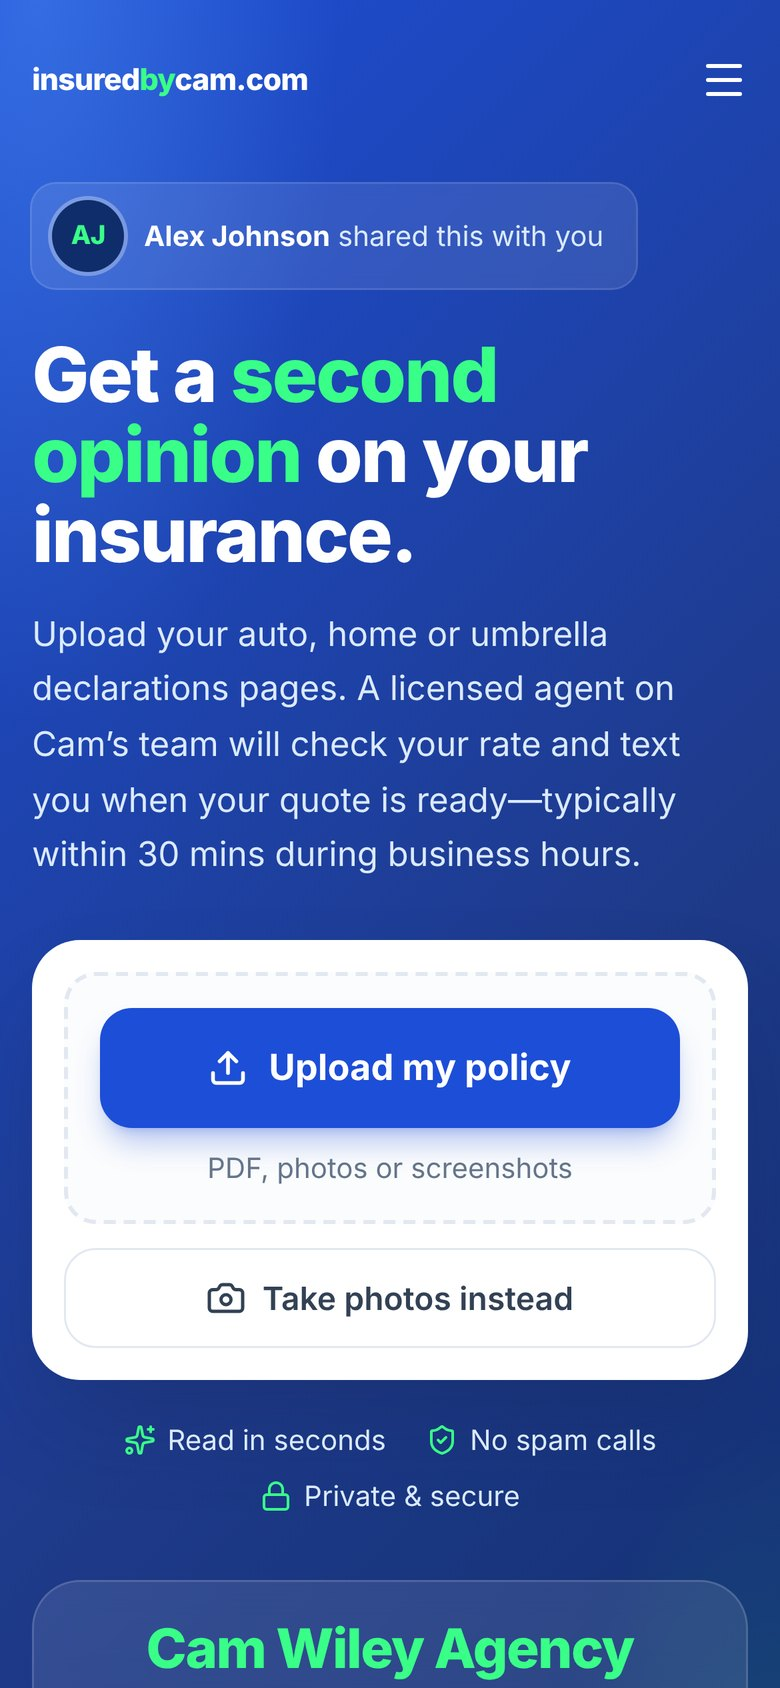
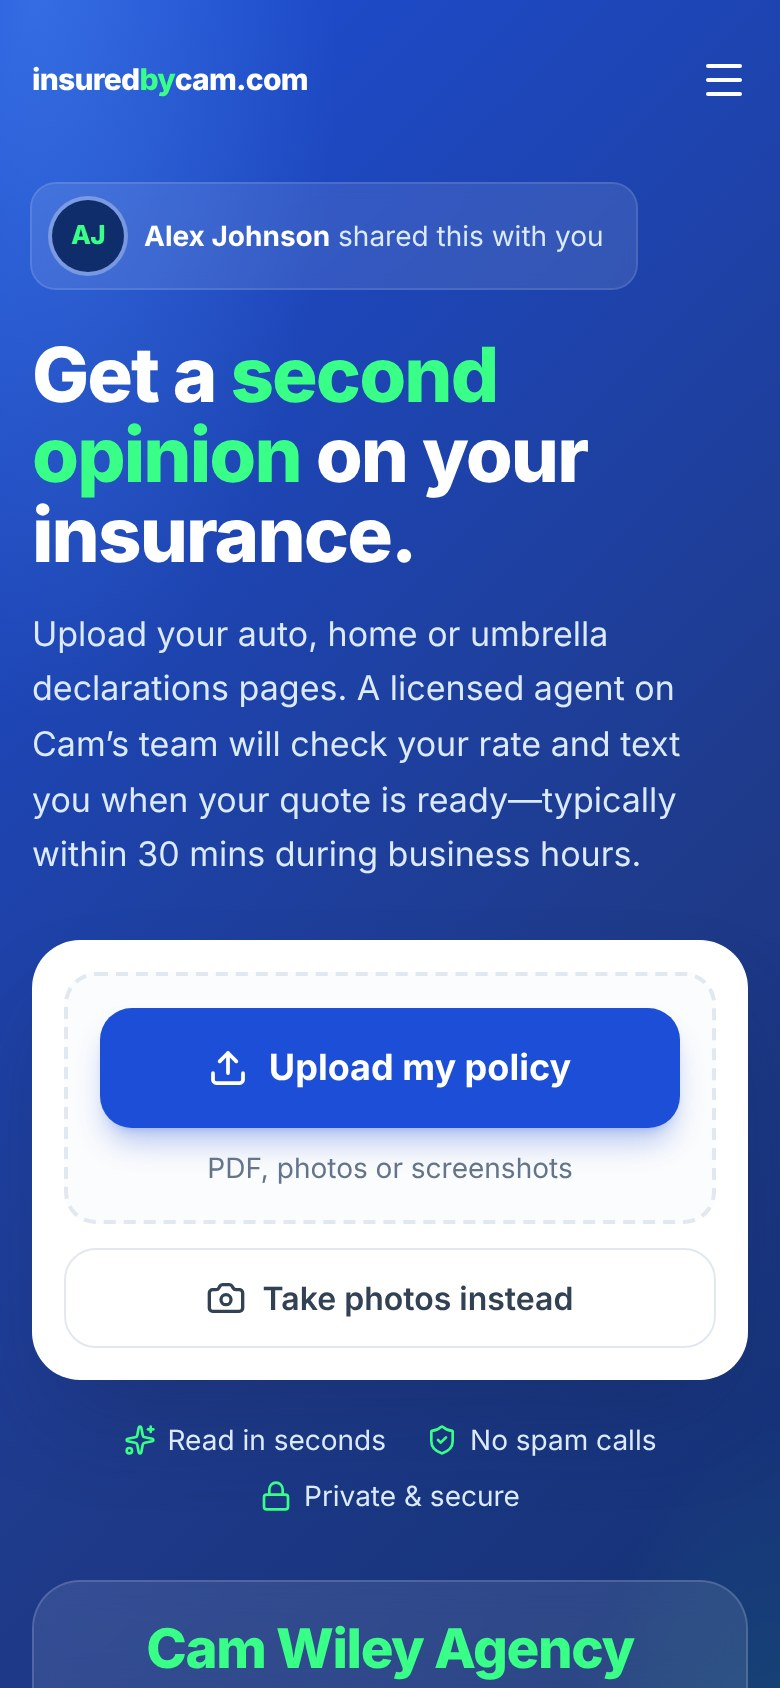
Partner portal: month headings are just the month; pitch screenshots match the site
Claude-Session: https://claude.ai/code/session_01ALNZAc94dnod2U2WV7PUZi

diff --git a/tests/e2e/partner-portal.spec.js b/tests/e2e/partner-portal.spec.js
@@ -171,7 +171,7 @@ test('a wrong or old link says so', async ({ page }) => {
   await expect(page.getByText('This link isn’t valid.')).toBeVisible();
 });
 
-test('month headings say activity; a paused link says so', async ({ page }) => {
+test('month headings are the month; a paused link says so', async ({ page }) => {
   const d = new Date(); d.setDate(1); d.setMonth(d.getMonth() + 1);
   const nextMonth21 = `${d.toLocaleDateString('en-CA').slice(0, 7)}-21`;
   await mockPartner(page, { data: portal({
@@ -186,7 +186,7 @@ test('month headings say activity; a paused link says so', async ({ page }) => {
   const table = page.getByRole('table', { name: 'Your referrals by month' });
   await expect(table.getByRole('columnheader', { name: 'Name' })).toBeVisible();
   await expect(table.getByRole('columnheader', { name: 'Products' })).toBeVisible();
-  await expect(table.getByRole('columnheader', { name: /^[A-Z][a-z]+ \d{4} Activity$/ })).toBeVisible();
+  await expect(table.getByRole('columnheader', { name: /^[A-Z][a-z]+ \d{4}$/ })).toBeVisible();
   await expect(table.getByRole('row', { name: 'Stephen Auto + Home or Condo' })).toBeVisible();
   await expect(page.getByText('$45')).toHaveCount(0);
   await expect(page.getByText(/on the way/)).toHaveCount(0);

diff --git a/src/pages/PartnerPortalPage.jsx b/src/pages/PartnerPortalPage.jsx
@@ -460,7 +460,7 @@ function Earnings({ token, data, onChange }) {
             <tbody key={m.month}>
               <tr className="border-t border-slate-200 bg-slate-50">
                 <th scope="colgroup" colSpan={2} className="px-3 py-2.5 text-left">
-                  <span className="font-bold text-[#0F2D6B]">{monthLabel(m.month)} Activity</span>
+                  <span className="font-bold text-[#0F2D6B]">{monthLabel(m.month)}</span>
                 </th>
               </tr>
               {m.rows.map((r, i) => (
